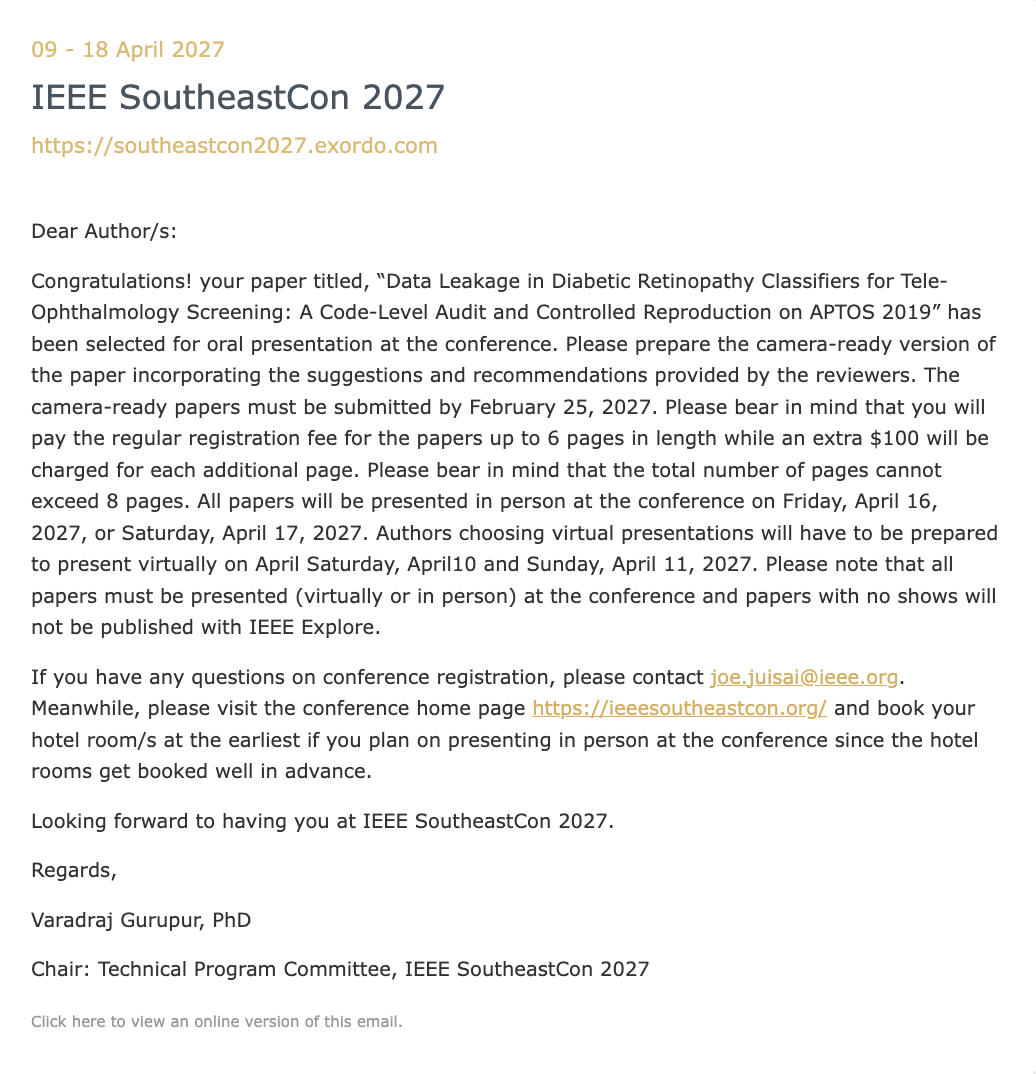
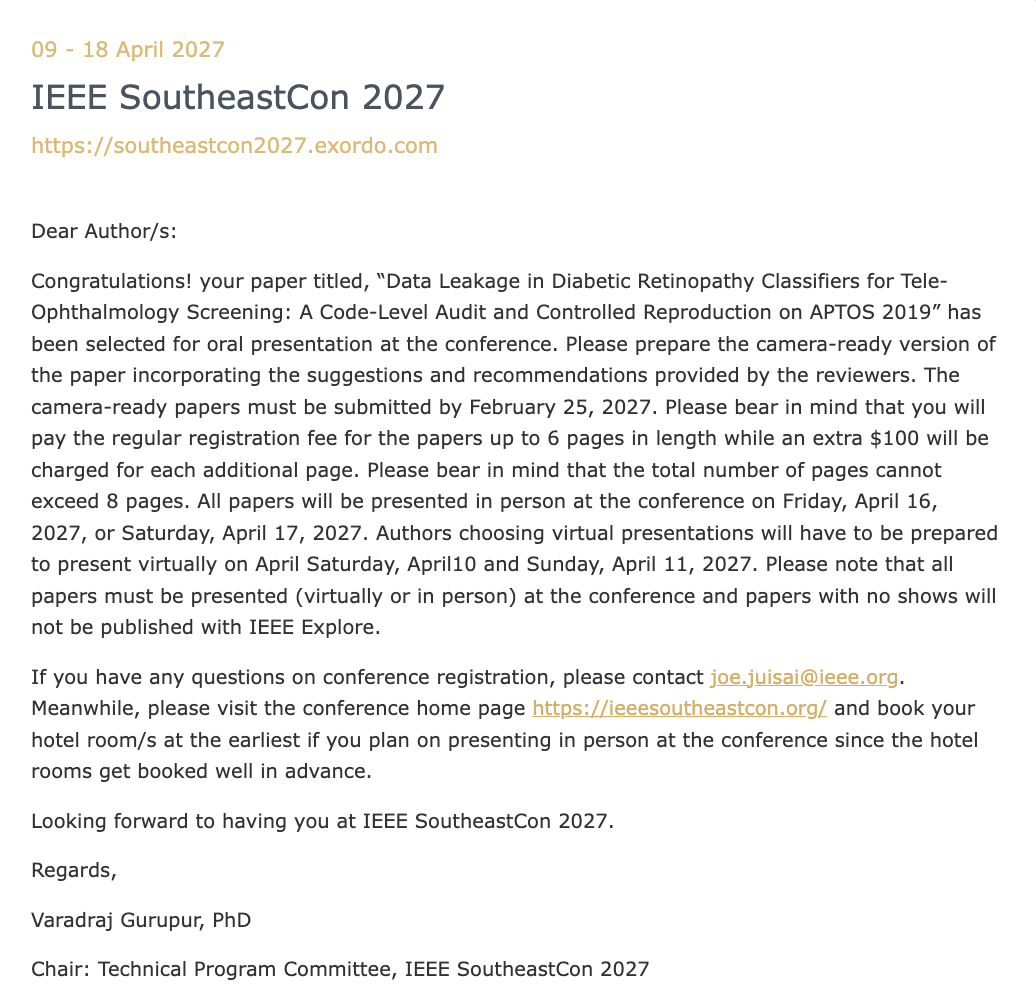
Add SoutheastCon submission record

Changed region(s): [[0.0309, 0.1856, 0.9575, 0.7735], [0.0309, 0.8044, 0.6178, 0.99], [0.0309, 0.0309, 0.4324, 0.1547]]

diff --git a/research/southeastcon-2027/index.html b/research/southeastcon-2027/index.html
@@ -32,6 +32,7 @@
   .eyebrow { margin: 0 0 6px; font-family: 'IBM Plex Mono', monospace; font-size: 13px; color: var(--green); }
   h1 { margin: 0; font-family: 'Fraunces', Georgia, serif; font-weight: 800; font-variation-settings: "SOFT" 100; font-size: clamp(26px, 4vw, 34px); line-height: 1.15; }
   figure { margin: 24px 0 0; }
+  figure + figure { margin-top: 36px; }
   figure img { display: block; width: 100%; height: auto; border-radius: 12px; border: 1px solid var(--line); background: #fff; }
   figcaption { margin-top: 14px; color: var(--body); font-size: 16px; }
   figcaption i { color: var(--ink); }
@@ -45,7 +46,11 @@
     <p class="eyebrow">IEEE SoutheastCon 2027</p>
     <h1>Paper Acceptance</h1>
     <figure>
-      <img src="/research/southeastcon-2027/acceptance.png" width="1036" height="1074" alt="Acceptance letter from the IEEE SoutheastCon 2027 Technical Program Committee">
+      <img src="/research/southeastcon-2027/submission-record.png" width="1150" height="494" alt="Submission record listing the paper title and authors, marked Accepted">
+      <figcaption>Submission record, IEEE SoutheastCon 2027 (Exordo).</figcaption>
+    </figure>
+    <figure>
+      <img src="/research/southeastcon-2027/acceptance.png" width="1036" height="1002" alt="Acceptance letter from the IEEE SoutheastCon 2027 Technical Program Committee">
       <figcaption><i>Data Leakage in Diabetic Retinopathy Classifiers for Tele-Ophthalmology Screening: A Code-Level Audit and Controlled Reproduction on APTOS 2019</i>. Accepted for oral presentation.</figcaption>
     </figure>
   </section>
